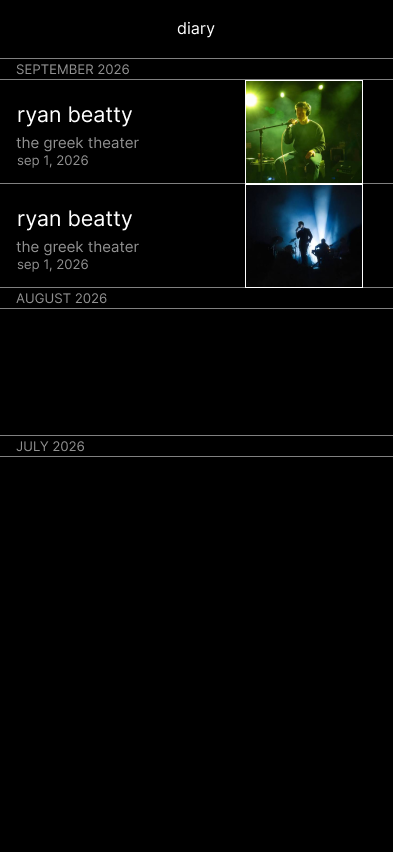
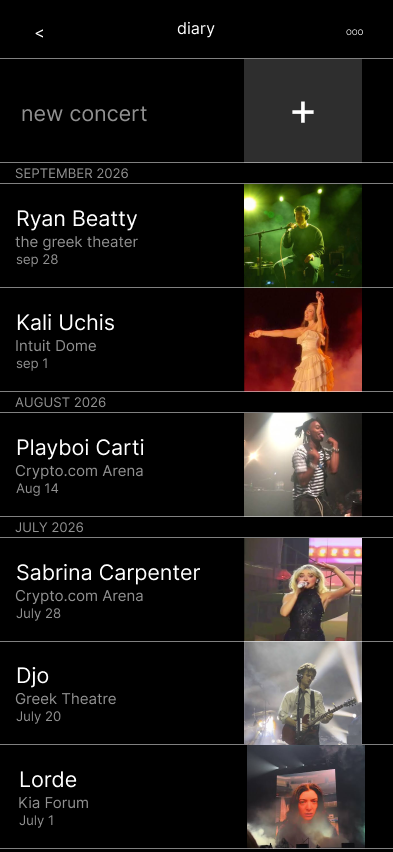
Use Inter throughout and update app mockup screens
- Switch captions and labels from JetBrains Mono to Inter; drop the mono font load
- Replace hero phone screens with the updated diary and journal mockups

diff --git a/app/page.tsx b/app/page.tsx
@@ -100,7 +100,7 @@ export default function Home() {
                     src="/images/app-diary.png"
                     width={393}
                     height={852}
-                    alt="The diary screen: shows grouped by month, each with the artist, venue, date and a photo from the night."
+                    alt="The diary screen: a new concert button above shows grouped by month, including Ryan Beatty, Kali Uchis, Playboi Carti, Sabrina Carpenter, Djo and Lorde, each with the venue, date and a photo."
                     priority
                   />
                 </div>
@@ -109,7 +109,7 @@ export default function Home() {
                     src="/images/app-journal.png"
                     width={393}
                     height={852}
-                    alt="A journal entry for Ryan Beatty at the Greek Theater: photos, a five-star rating and a written review."
+                    alt="A journal entry for Ryan Beatty at the Greek Theater: stage photos, a four-star rating and a written review."
                     priority
                   />
                 </div>

diff --git a/app/layout.tsx b/app/layout.tsx
@@ -1,10 +1,9 @@
 import type { Metadata, Viewport } from "next";
-import { Inter, JetBrains_Mono } from "next/font/google";
+import { Inter } from "next/font/google";
 import { siteConfig } from "@/lib/config";
 import "./globals.css";
 
 const inter = Inter({ subsets: ["latin"], weight: ["400", "500"], variable: "--font-inter" });
-const mono = JetBrains_Mono({ subsets: ["latin"], weight: ["400", "500"], variable: "--font-jetbrains" });
 
 export const metadata: Metadata = {
   title: siteConfig.title,
@@ -21,7 +20,7 @@ export const viewport: Viewport = {
 
 export default function RootLayout({ children }: { children: React.ReactNode }) {
   return (
-    <html lang="en" className={`${inter.variable} ${mono.variable}`} suppressHydrationWarning>
+    <html lang="en" className={inter.variable} suppressHydrationWarning>
       <head>
         {/* Marks JS as available so scroll effects only hide content when they can show it again */}
         <script dangerouslySetInnerHTML={{ __html: 'document.documentElement.classList.add("js");' }} />

diff --git a/app/globals.css b/app/globals.css
@@ -40,10 +40,10 @@
   --amber-wash: var(--surface);
 
   /* Type */
-  /* --font-inter and --font-jetbrains come from next/font in app/layout.tsx */
+  /* --font-inter comes from next/font in app/layout.tsx */
   --font-display: var(--font-inter), "Helvetica Neue", Arial, sans-serif;
   --font-body: var(--font-inter), "Helvetica Neue", Arial, sans-serif;
-  --font-mono: var(--font-jetbrains), "IBM Plex Mono", ui-monospace, monospace;
+  --font-mono: var(--font-body); /* small labels and captions, also Inter */
   --text-sm: 0.8125rem;
   --text-base: 1rem;
   --text-lg: 1.25rem;

diff --git a/README.md b/README.md
@@ -64,7 +64,7 @@ Add the two sample files and set `samples.phone` and `samples.device` in `js/con
 
 ### Styles
 - **House style is all lowercase.** Write copy in lowercase. `body` also sets `text-transform: lowercase` as a safety net.
-- **Fonts:** Funnel Display for headlines and Funnel Sans for everything else. No serif and no monospace.
+- **Fonts:** Inter for everything, loaded with `next/font` in `app/layout.tsx`.
 - **Look:** inspired by Teenage Engineering, with soft grey grounds, lots of space, rounded shapes, and amber `#C2642B` as the one accent. Dark sections use the brief's faceplate `#22241E`.
 - **Design settings:** colors, type sizes, spacing and motion are CSS variables at the top of `css/styles.css`.
 - **Layout:** the base styles are the simple stacked layout, and `@media (min-width: 1024px)` builds the desktop compositions.
